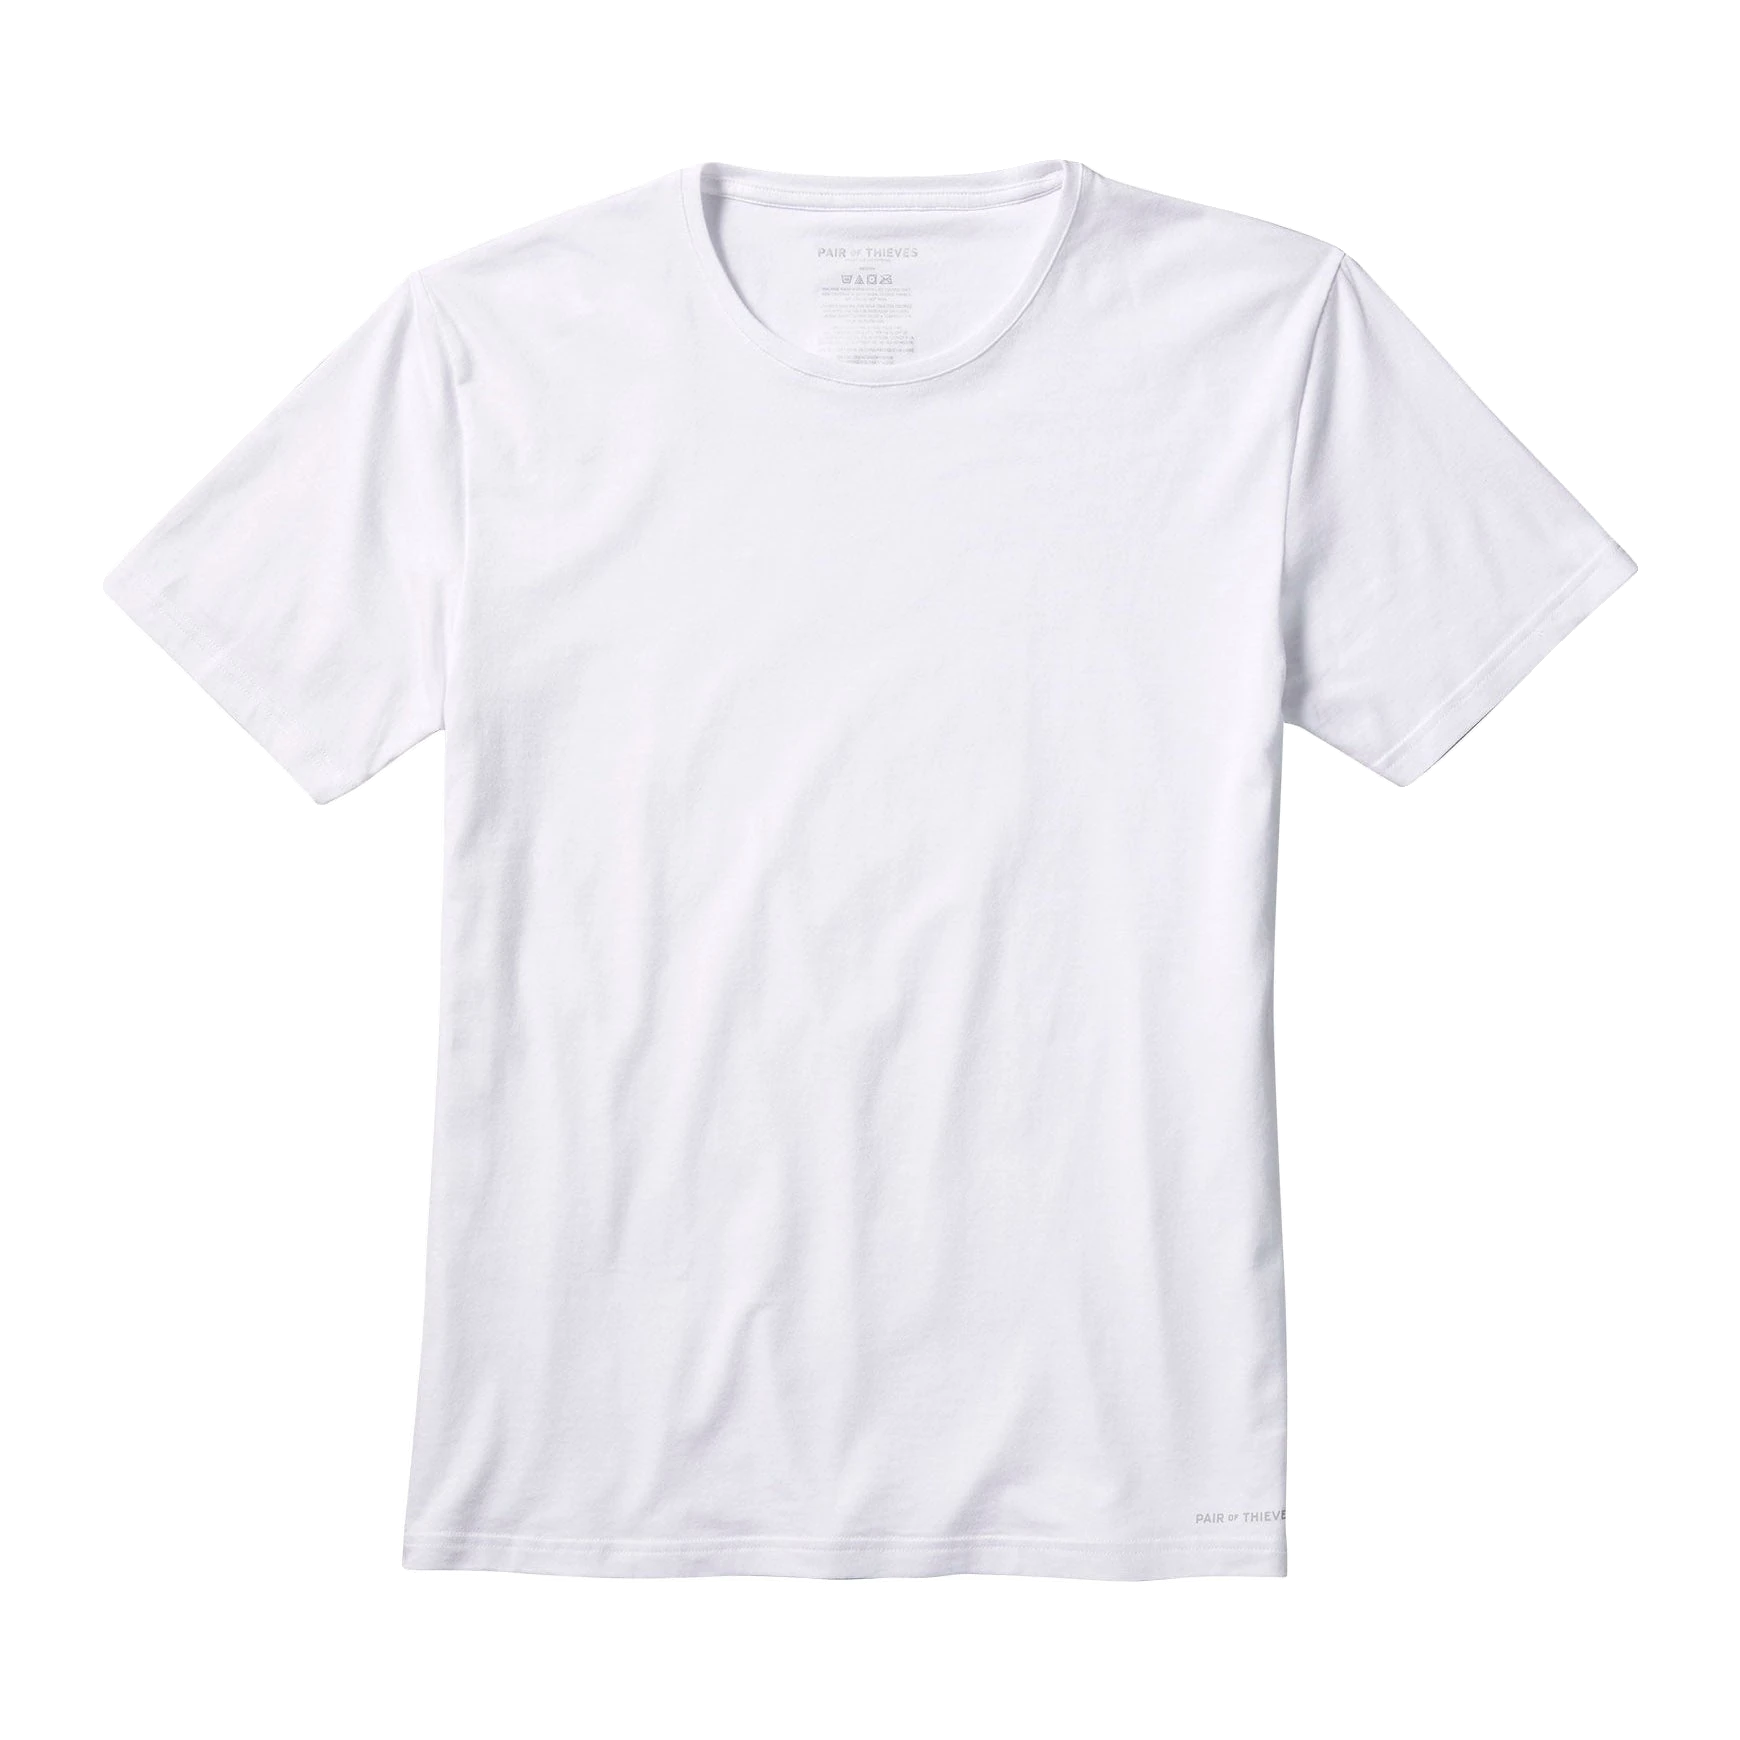
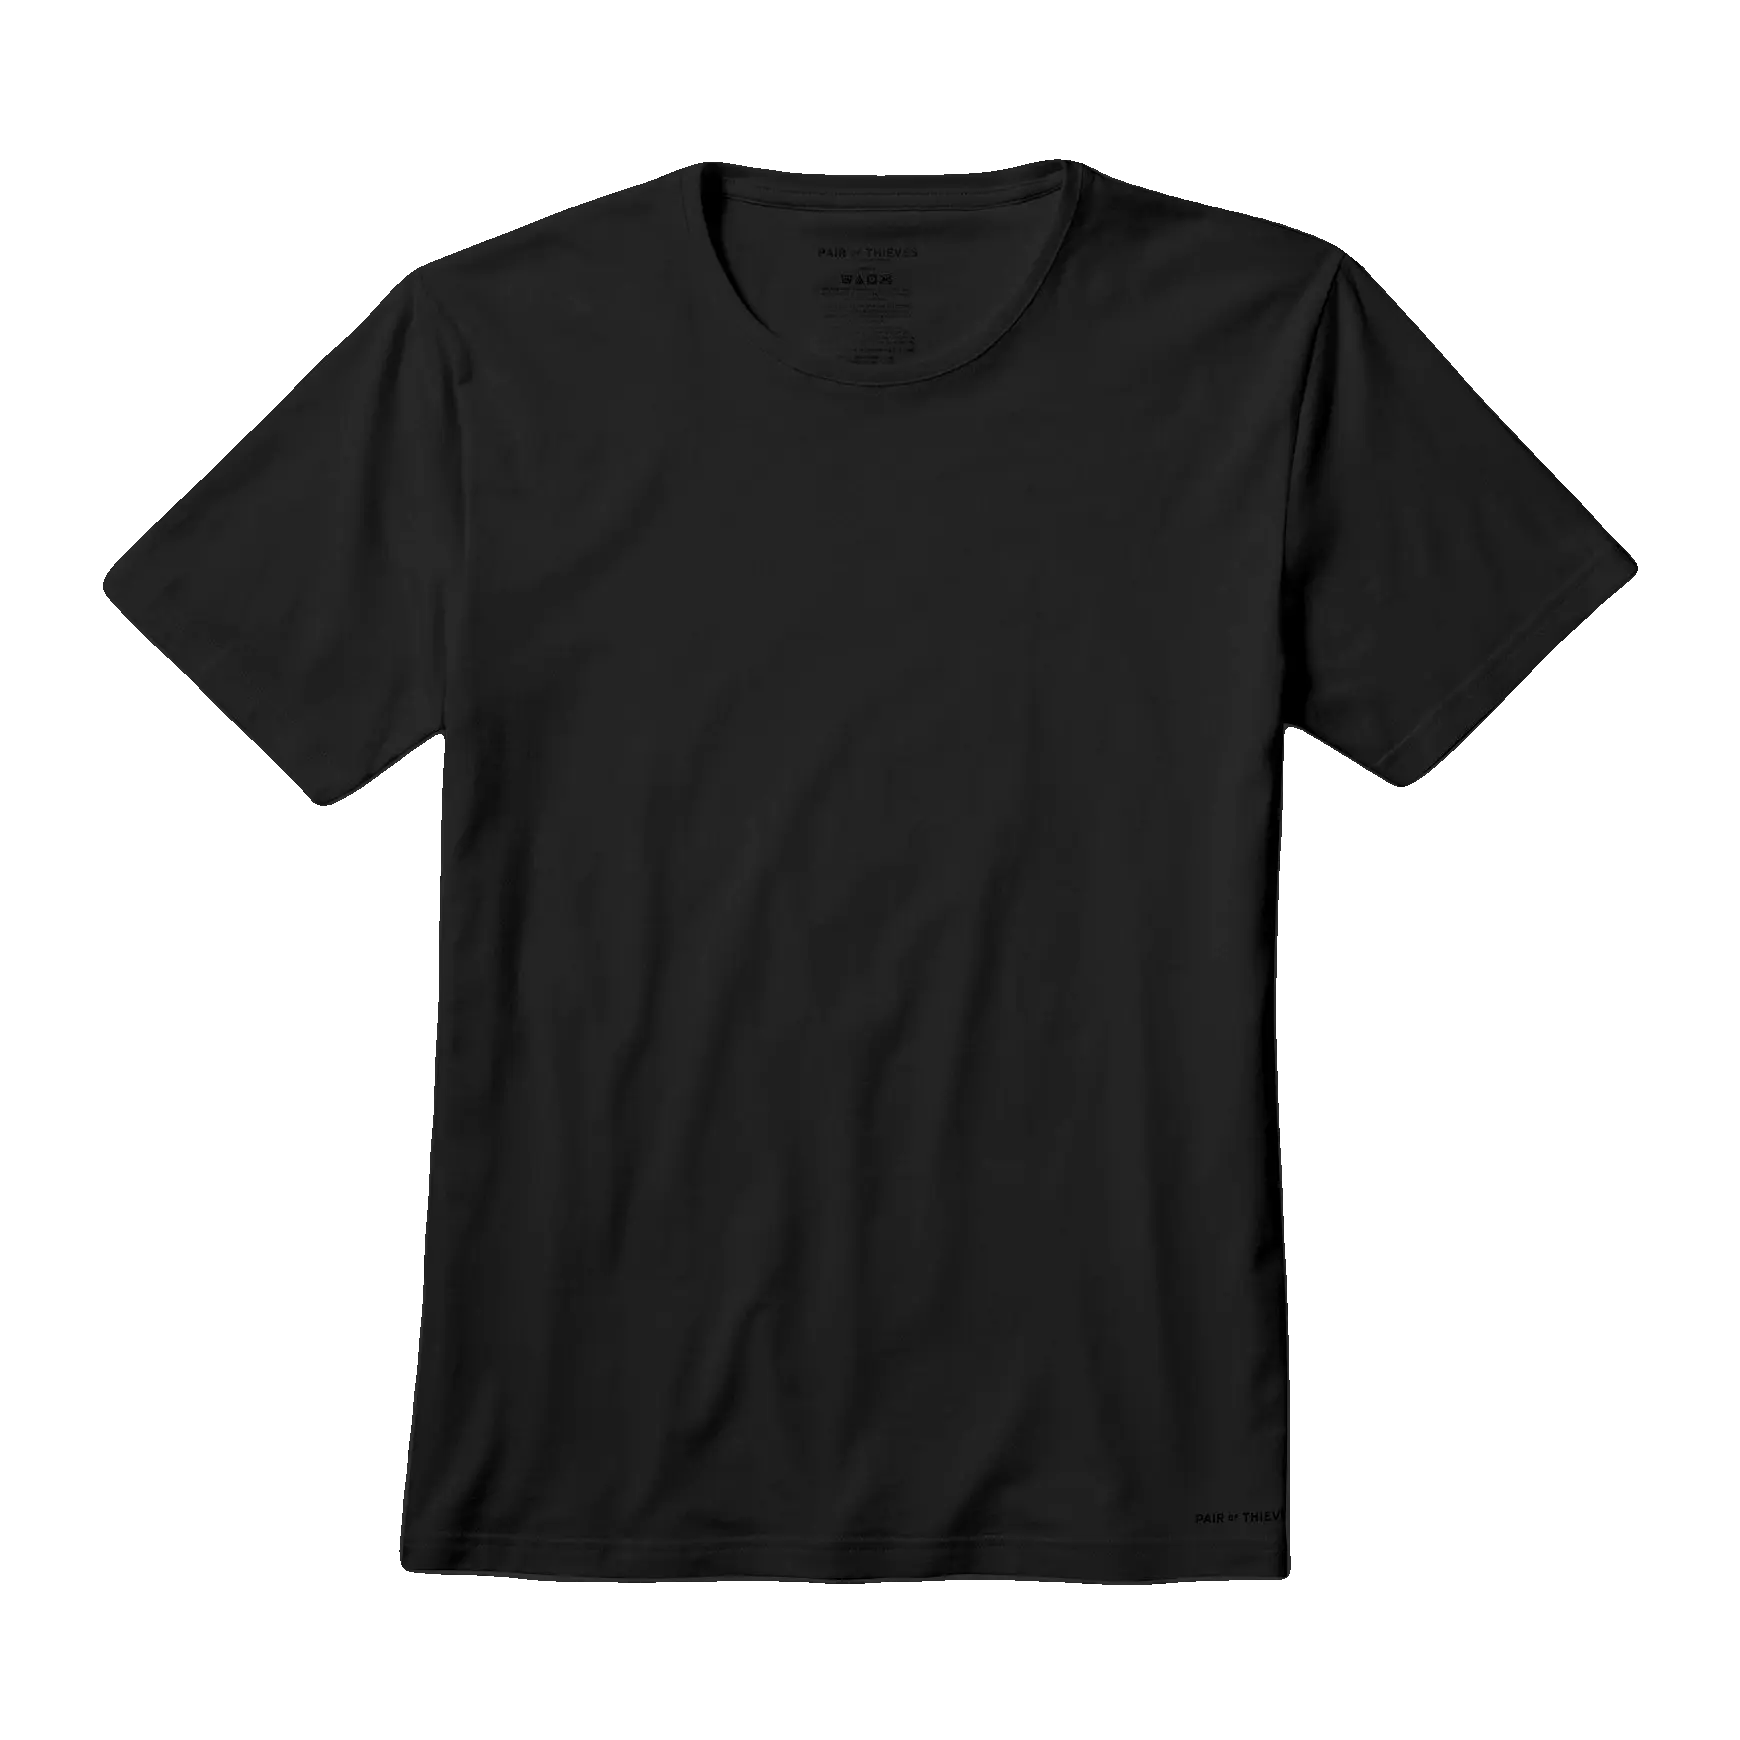
feat: switch demo tee product to black

diff --git a/src/shared/consts/products.ts b/src/shared/consts/products.ts
@@ -25,13 +25,13 @@ const PRODUCT_CATALOG: ProductCatalogItem[] = [
     content: {
       ko: {
         brand: 'Clean Layer',
-        name: '화이트 크루넥 티셔츠',
+        name: '블랙 크루넥 티셔츠',
         description:
           '정면 실루엣과 넥라인이 또렷한 기본 티셔츠입니다. 단독 착용과 레이어링 모두 확인하기 좋은 데일리 상의입니다.',
       },
       en: {
         brand: 'Clean Layer',
-        name: 'White Crew Neck Tee',
+        name: 'Black Crew Neck Tee',
         description:
           'A clean crew neck tee with a clear front silhouette and neckline, useful for checking both solo wear and layering.',
       },

diff --git a/src/entities/product/ui/ProductCard.tsx b/src/entities/product/ui/ProductCard.tsx
@@ -10,7 +10,7 @@ interface ProductCardProps {
 }
 
 const productSwatches: Record<number, string[]> = {
-  1: ['#f6f4ef', '#d9d4c8'],
+  1: ['#171717', '#4a4a47'],
   2: ['#181816', '#6f735f'],
   3: ['#171717', '#eee9df'],
   4: ['#d8d8d4', '#25344f', '#8f969a'],
